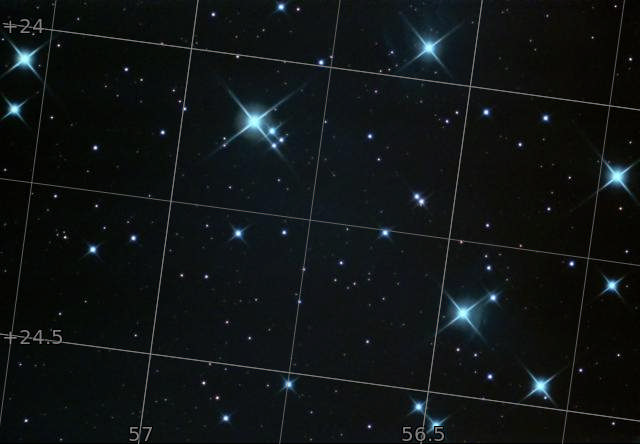
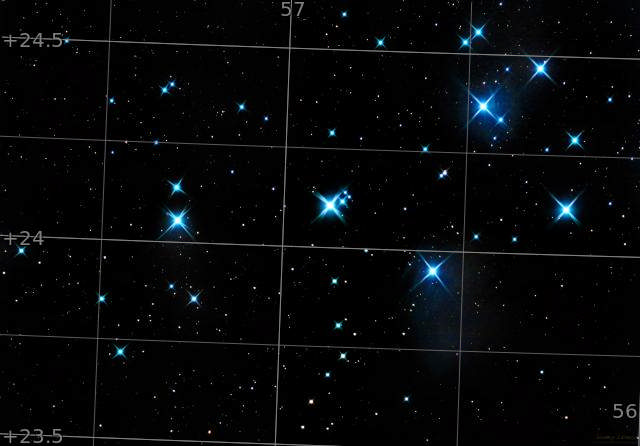
updated pleiades

diff --git a/_gallery/m45-pleiades.md b/_gallery/m45-pleiades.md
@@ -9,13 +9,13 @@ length: "400mm"
 aperture: "80mm"
 folder: m45
 exposure: 5
-sessions: 4
-firstCapture: 2021-03-12
-lastCapture: 2021-07-25
-lights: 196
-ra:	"03h 46m 55.505s"
-dec: "+24° 15' 03.516"
-size: "62.3 x 43.2 arcmin"
-radius:	"0.632 deg"
-scale:	"0.825 arcsec/pixel"
+sessions: 2
+firstCapture: 2021-09-01
+lastCapture: 2021-09-09
+lights: 800
+ra:	"03h 47m 35.4s"
+dec: "+24° 03' 41.284"
+size: "96.895 x 67.386 arcmin"
+radius:	"0.984 deg"
+scale:	"1.126 arcsec/pixel"
 ---
